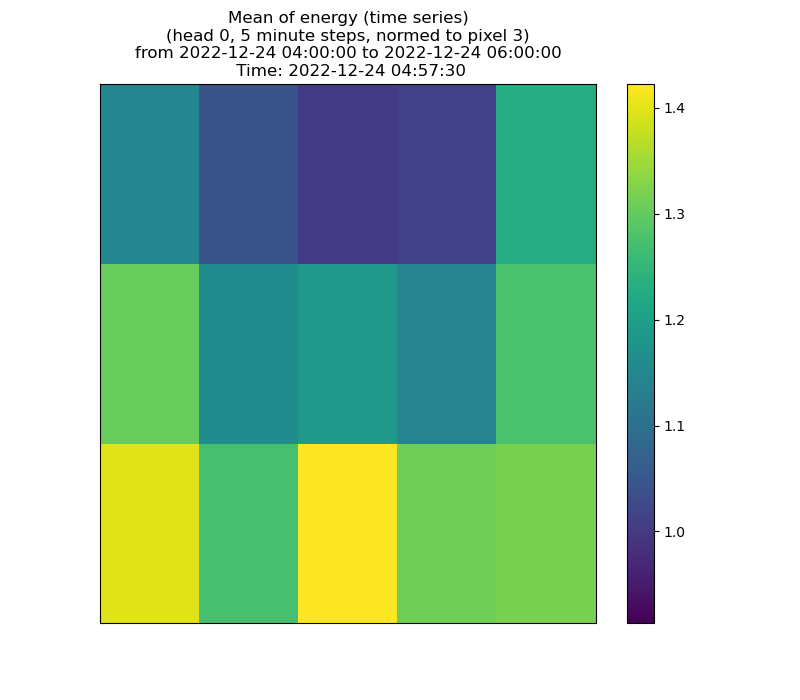
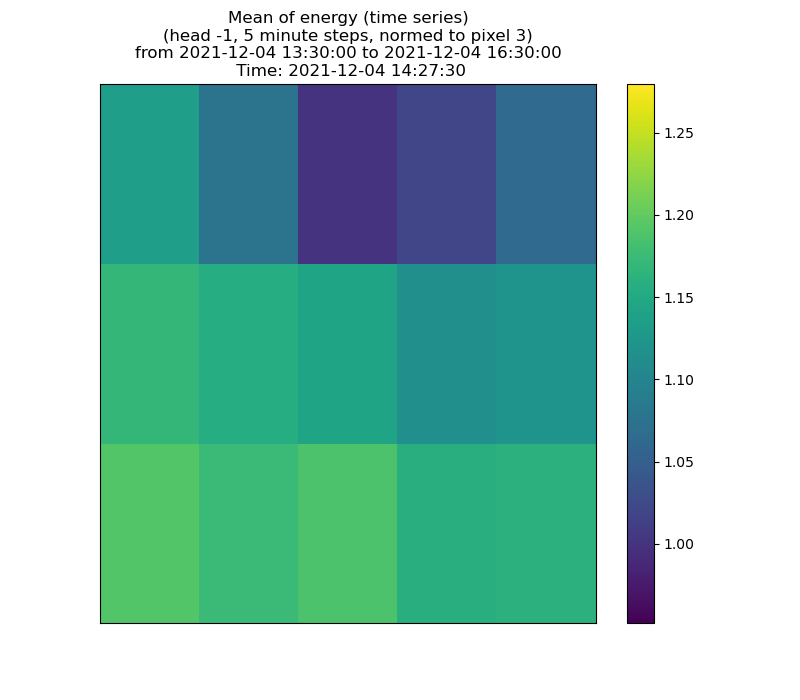
Magnetfeld muss gemacht werden

diff --git a/analyze_data.py b/analyze_data.py
@@ -7,7 +7,7 @@ import datetime as dt
 from analyze_nom_II import STEP
 
 # dat = STEP(2021,12,4,rpath='data/')
-# dat = STEP(2021,12,4)
+dat = STEP(2021,12,4)
 
 # box_list = [[[15,35],[30,38]],[[20,45],[25,30]],[[26,80],[20,25]],[[30,120],[15,20]],[[40,155],[10,15]],[[50,170],[3,10]]]
 # box_list_2 = [[[15,35],[30,35]],[[20,45],[25,30]],[[30,60],[20,25]],[[30,80],[15,20]],[[50,100],[10,15]],[[100,150],[3,10]]]
@@ -42,49 +42,70 @@ pixel_list = [i for i in range(1,16)] # [4,9,14]
 # dat = STEP(2021,2,7)
 # dat.marginal_distribution(pixel=4,norm='tmax',save='analyze/')
 
-dat1 = STEP(2021,12,4)
-dat2 = STEP(2022,11,19)
-dat3 = STEP(2022,12,1)
-dat4 = STEP(2022,12,12)
-dat5 = STEP(2022,12,24)
 
 
-# Before Mid-April 2022:
 
-# 2021-12-04:
+# Versuch Magnetfeld mit darzustellen und rauszurechnen...
+
 box_list = [[[15,35],[30,38]],[[20,45],[25,30]],[[26,80],[20,25]],[[30,120],[15,20]],[[40,155],[10,15]],[[50,170],[3,10]]]
 period = [dt.datetime(2021,12,4,13,30),dt.datetime(2021,12,4,16,30)]
 
-dat1.evolution_energy_means_ts(filename='21_12_04.png',head=0,norm='tmax',save='etracks/',period=period,box_list=box_list,pixel_list = pixel_list,norm_pixel=3)
-dat1.wrapper_distribution_ring('21_12_04', head=0, norm='tmax', period=period, box_list=box_list, norm_pixel=3)
+dat.evolution_energy_means_ts(filename='21_12_04.png',head=-1,norm='tmax',save='etracks_test/',period=period,box_list=box_list,pixel_list = pixel_list,norm_pixel=3)
+dat.wrapper_distribution_ring('21_12_04_electrons', head=-1, norm='tmax', period=period, box_list=box_list, norm_pixel=3)
 
 
-# After Mid-April 2022:
 
-# 2022-11-19:
-box_list=[[[25,50],[28,35]],[[30,60],[23,28]],[[35,70],[18,23]],[[40,110],[12,18]],[[60,165],[2,12]]]
-period = [dt.datetime(2022,11,19,13,30),dt.datetime(2022,11,19,17,30)]
 
-dat2.evolution_energy_means_ts(filename='22_11_19.png',head=0,norm='tmax',save='etracks/',period=period,box_list=box_list,pixel_list = pixel_list,norm_pixel=3)
-dat2.wrapper_distribution_ring('22_11_19', head=0, norm='tmax', period=period, box_list=box_list, norm_pixel=3)
 
-# 2022-12-01:
-box_list=[[[58,67],[35,40]],[[60,70],[32,35]],[[65,75],[28,32]],[[70,82],[23,28]],[[74,90],[18,23]],[[74,100],[14,18]],[[77,132],[2,14]]]
-period = [dt.datetime(2022,12,1,6,30),dt.datetime(2022,12,1,9,30)]
+# dat1 = STEP(2021,12,4)
+# dat2 = STEP(2022,11,19)
+# dat3 = STEP(2022,12,1)
+# dat4 = STEP(2022,12,12)
+# dat5 = STEP(2022,12,24)
 
-dat3.evolution_energy_means_ts(filename='22_12_01.png',head=0,norm='tmax',save='etracks/',period=period,box_list=box_list,pixel_list = pixel_list,norm_pixel=3)
-dat3.wrapper_distribution_ring('22_12_01', head=0, norm='tmax', period=period, box_list=box_list, norm_pixel=3)
 
-# 2022-12-12:
-box_list=[[[25,50],[23,30]],[[30,70],[17,23]],[[40,80],[12,17]],[[50,85],[8,12]],[[60,90],[2,8]]]
-period = [dt.datetime(2022,12,12,7,30),dt.datetime(2022,12,12,10)]
+# # Before Mid-April 2022:
+
+# # 2021-12-04:
+# box_list = [[[15,35],[30,38]],[[20,45],[25,30]],[[26,80],[20,25]],[[30,120],[15,20]],[[40,155],[10,15]],[[50,170],[3,10]]]
+# period = [dt.datetime(2021,12,4,13,30),dt.datetime(2021,12,4,16,30)]
+
+# dat1.evolution_energy_means_ts(filename='21_12_04.png',head=0,norm='tmax',save='etracks/',period=period,box_list=box_list,pixel_list = pixel_list,norm_pixel=3)
+# dat1.wrapper_distribution_ring('21_12_04', head=0, norm='tmax', period=period, box_list=box_list, norm_pixel=3)
+
+
+# # After Mid-April 2022:
+
+# # 2022-11-19:
+# box_list=[[[25,50],[28,35]],[[30,60],[23,28]],[[35,70],[18,23]],[[40,110],[12,18]],[[60,165],[2,12]]]
+# period = [dt.datetime(2022,11,19,13,30),dt.datetime(2022,11,19,17,30)]
+
+# dat2.evolution_energy_means_ts(filename='22_11_19.png',head=0,norm='tmax',save='etracks/',period=period,box_list=box_list,pixel_list = pixel_list,norm_pixel=3)
+# dat2.wrapper_distribution_ring('22_11_19', head=0, norm='tmax', period=period, box_list=box_list, norm_pixel=3)
+
+# # 2022-12-01:
+# box_list=[[[58,67],[35,40]],[[60,70],[32,35]],[[65,75],[28,32]],[[70,82],[23,28]],[[74,90],[18,23]],[[74,100],[14,18]],[[77,132],[2,14]]]
+# period = [dt.datetime(2022,12,1,6,30),dt.datetime(2022,12,1,9,30)]
+
+# dat3.evolution_energy_means_ts(filename='22_12_01.png',head=0,norm='tmax',save='etracks/',period=period,box_list=box_list,pixel_list = pixel_list,norm_pixel=3)
+# dat3.wrapper_distribution_ring('22_12_01', head=0, norm='tmax', period=period, box_list=box_list, norm_pixel=3)
+
+# # 2022-12-12:
+# box_list=[[[25,50],[23,30]],[[30,70],[17,23]],[[40,80],[12,17]],[[50,85],[8,12]],[[60,90],[2,8]]]
+# period = [dt.datetime(2022,12,12,7,30),dt.datetime(2022,12,12,10)]
         
-dat4.evolution_energy_means_ts(filename='22_12_12.png',head=0,norm='tmax',save='etracks/',period=period,box_list=box_list,pixel_list = pixel_list,norm_pixel=3)
-dat4.wrapper_distribution_ring('22_12_12', head=0, norm='tmax', period=period, box_list=box_list, norm_pixel=3)
+# dat4.evolution_energy_means_ts(filename='22_12_12.png',head=0,norm='tmax',save='etracks/',period=period,box_list=box_list,pixel_list = pixel_list,norm_pixel=3)
+# dat4.wrapper_distribution_ring('22_12_12', head=0, norm='tmax', period=period, box_list=box_list, norm_pixel=3)
 
-# 2022-12-24:
-box_list=[[[20,35],[35,40]],[[25,40],[30,35]],[[28,50],[23,30]],[[33,58],[17,23]],[[40,64],[12,17]],[[45,75],[8,12]],[[50,80],[2,8]]]
-period = [dt.datetime(2022,12,24,4),dt.datetime(2022,12,24,6)]
+# # 2022-12-24:
+# box_list=[[[20,35],[35,40]],[[25,40],[30,35]],[[28,50],[23,30]],[[33,58],[17,23]],[[40,64],[12,17]],[[45,75],[8,12]],[[50,80],[2,8]]]
+# period = [dt.datetime(2022,12,24,4),dt.datetime(2022,12,24,6)]
 
-dat5.evolution_energy_means_ts(filename='22_12_24.png',head=0,norm='tmax',save='etracks/',period=period,box_list=box_list,pixel_list = pixel_list,norm_pixel=3)
-dat5.wrapper_distribution_ring('22_12_24', head=0, norm='tmax', period=period, box_list=box_list, norm_pixel=3)
+# dat5.evolution_energy_means_ts(filename='22_12_24.png',head=0,norm='tmax',save='etracks/',period=period,box_list=box_list,pixel_list = pixel_list,norm_pixel=3)
+# dat5.wrapper_distribution_ring('22_12_24', head=0, norm='tmax', period=period, box_list=box_list, norm_pixel=3)
+
+
+
+
+
+

diff --git a/workbench.py b/workbench.py
@@ -9,6 +9,10 @@ import load_nom_II as ld
 import plot_nom_II as pt
 from scipy.optimize import curve_fit
 from analyze_nom_II import STEP
+# import os
+# os.environ["CDF_LIB"] = "~/CDF/lib"
+# from spacepy import pycdf
+import cdflib
 
 ebins = np.array([  0.98 ,   2.144,   2.336,   2.544,   2.784,   3.04 ,   3.312,
          3.6  ,   3.92 ,   4.288,   4.672,   5.088,   5.568,   6.08 ,
@@ -20,20 +24,37 @@ ebins = np.array([  0.98 ,   2.144,   2.336,   2.544,   2.784,   3.04 ,   3.312,
        137.216, 149.504, 162.816, 178.176, 194.56 , 211.968, 230.4  ,
        372.736])
 
-dat = STEP('data/',2021,12,4)
-box_list = [[[20,40],[25,35]],[[40,60],[15,25]]]
 
-pldat, pltime, vmax = dat.data_prep(ebins,res = '1min', head = 0, period = [dt.datetime(2021,12,4,13,30),dt.datetime(2021,12,4,16,30)], norm = 'tmax', overflow = True, esquare = False)
-box_data = dat.data_boxes(pldat,box_list)
 
-pdat = pldat[4]
-ptime = np.append(pltime[4],pltime[4][-1]+dt.timedelta(seconds=60))
+# Versuch Magnetfelddaten aus cdf zu laden
 
-print(len(pldat[4]))
-print(len(box_data[4]))
+path = '/data/projects/solo/mag/l2_soar/rtn_1minute/2021/solo_L2_mag-rtn-normal-1-minute_20211204_V01.cdf'
 
-for i in range(19,62):
-       print(box_data[4][i])
+cdf = cdflib.CDF(path)
+
+print(cdf)
+
+
+
+
+
+
+
+
+# dat = STEP('data/',2021,12,4)
+# box_list = [[[20,40],[25,35]],[[40,60],[15,25]]]
+
+# pldat, pltime, vmax = dat.data_prep(ebins,res = '1min', head = 0, period = [dt.datetime(2021,12,4,13,30),dt.datetime(2021,12,4,16,30)], norm = 'tmax', overflow = True, esquare = False)
+# box_data = dat.data_boxes(pldat,box_list)
+
+# pdat = pldat[4]
+# ptime = np.append(pltime[4],pltime[4][-1]+dt.timedelta(seconds=60))
+
+# print(len(pldat[4]))
+# print(len(box_data[4]))
+
+# for i in range(19,62):
+#        print(box_data[4][i])
 
 # print(pldat)
 # print(len(pldat))
